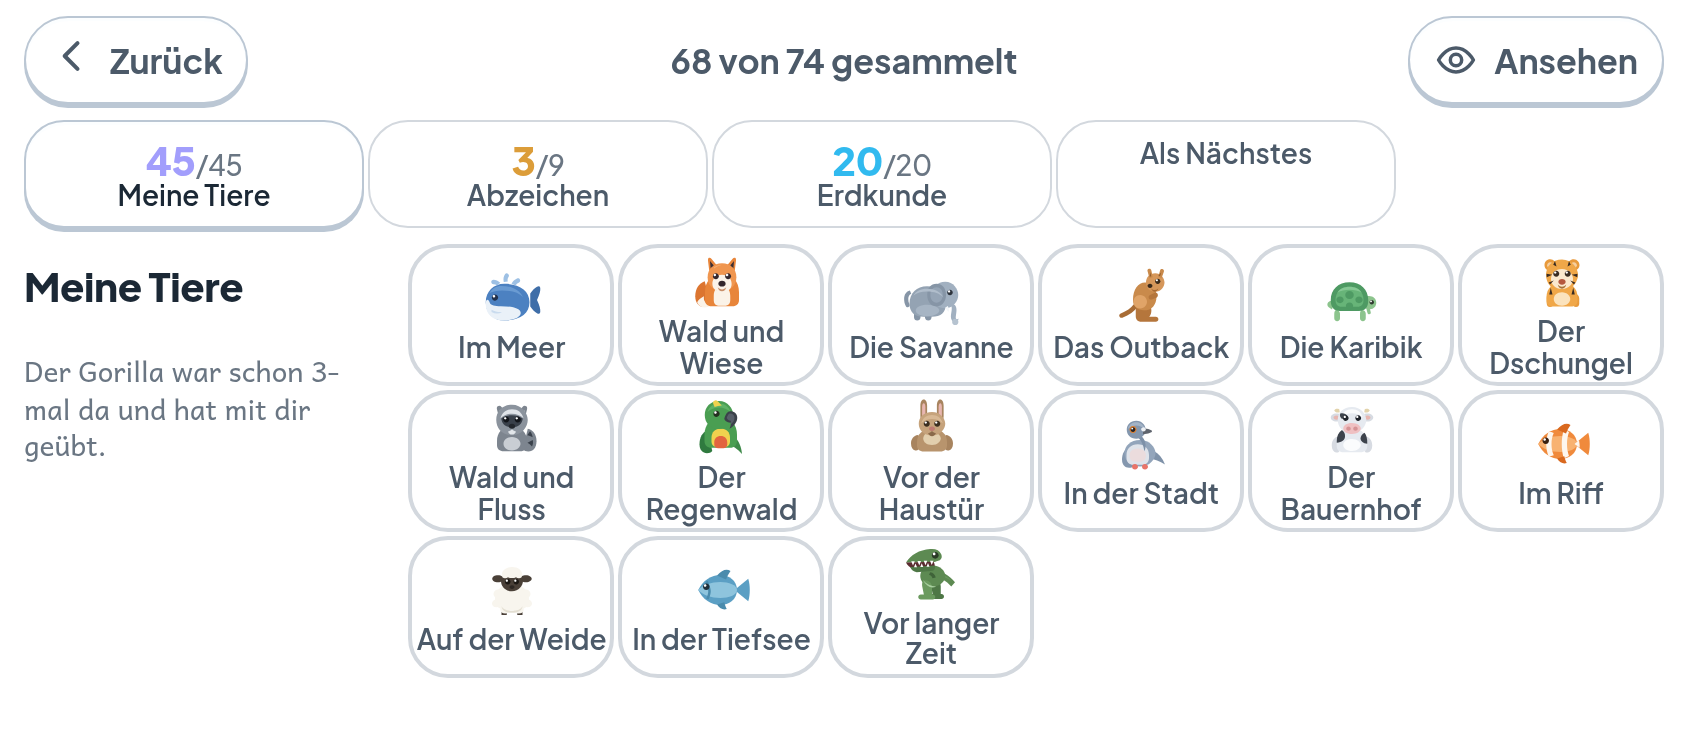
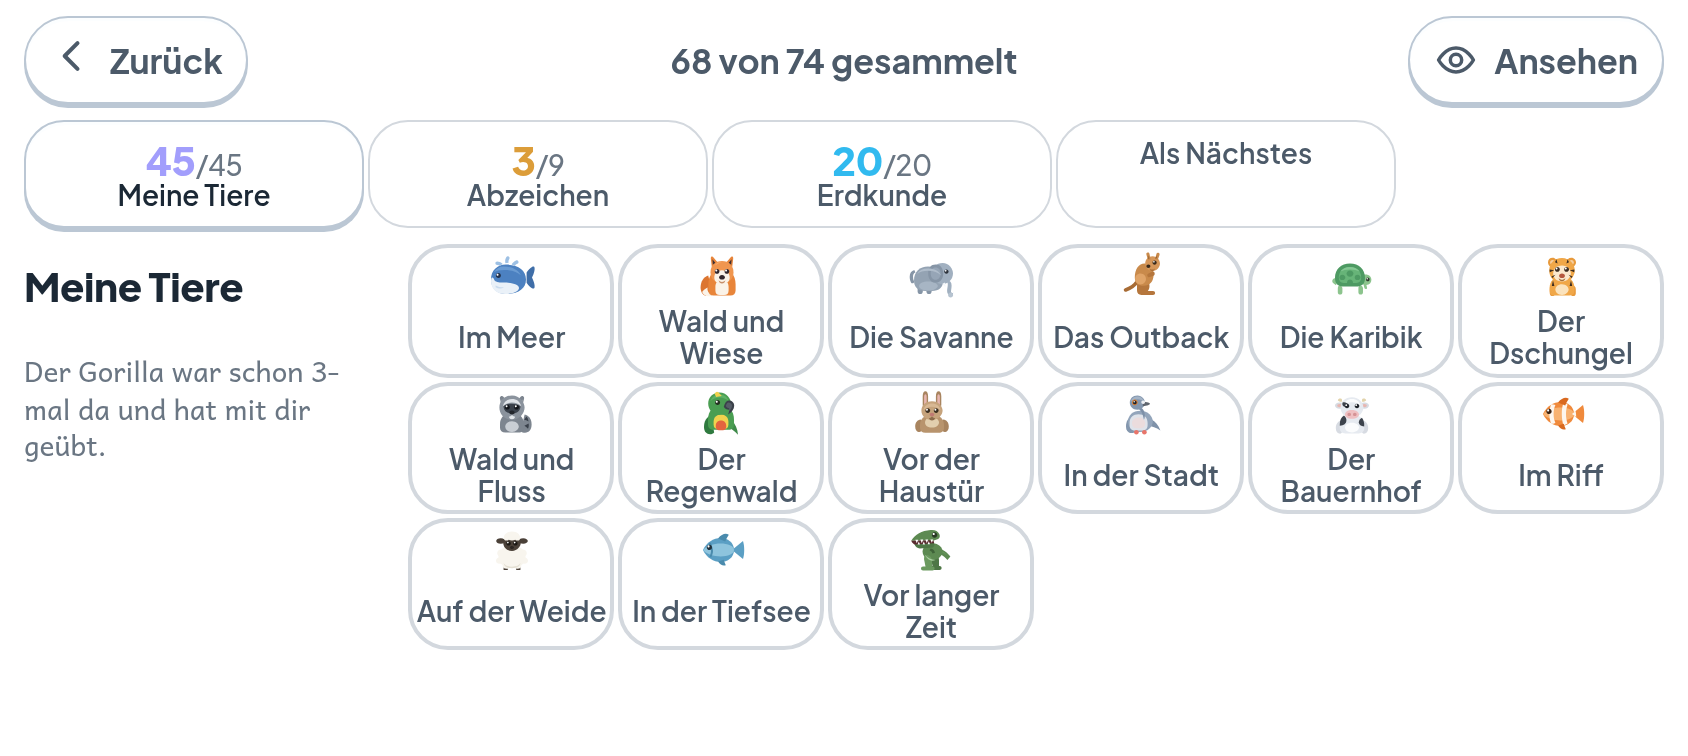
B15: neun Auslieferungen lang kam nichts an — die Wandhöhe hing an der Schriftrundung
Rückmeldung der Familie, zum dritten Mal: „Wir sehen weiterhin Version
420." Ich hatte es zweimal als Cache abgetan. Es war keiner.

DIE LETZTEN NEUN AUSLIEFERUNGEN SIND ALLE ROT. Zuletzt ausgeliefert
wurde Lauf #200 (4d27af0, Runde 0). Alles seither — Runde 3, Runde 4,
B4b, B12, B12b, B13, B14 — liegt in `main` und war nie auf einem Gerät.
Der Service Worker ist unschuldig: er liefert korrekt aus, was Pages
hat, und Pages hat v420.

DIE URSACHE ist ein Tor, das auf zwei Rechnern verschieden urteilt:

    ROT  iPhone quer, Leiste 844x390 — 5 nicht erreichbar
           Forscherbuch (Tiere): „Der Bauernhof" — 3 px über den Rand

Lokal grün. Gemessen ist der Unterschied 16 Punkte, also genau eine
Textzeile. Fünf der fünfzehn Raumnamen liegen mit 99 bis 107 Punkten an
der Kante der 106 Punkte breiten Zelle — auf welcher Seite sie fallen,
entscheidet die Sub-Pixel-Rundung des jeweiligen Chromium. Damit hing
die HÖHE der ganzen Wand an der Schriftrundung. Auf dem Gerät mit
sicherer Fläche ist das Raster 214 hoch, drei Reihen zu 71 sind 213: es
war nie Luft da, es war Glück.

BREITER MACHEN GING NICHT — gemessen und verworfen: mit 112 Punkten
passt jeder Name in eine Zeile, aber es sind nur noch vier Spalten und
damit vier Reihen, 14 Punkte zu viel.

WAS FUNKTIONIERT: der Kasten des Namens ist IMMER zwei Zeilen hoch, ob
er sie braucht oder nicht, und das Merkzeichen schrumpft auf dem kurzen
Querformat von 30 auf 24 Punkte. Die Höhe der Wand ist damit eine
[…]

Changed region(s): [[0.2464, 0.3347, 0.9858, 0.9127]]

diff --git a/prototyp/vorlage.html b/prototyp/vorlage.html
@@ -1300,7 +1300,13 @@ body{background:linear-gradient(168deg,var(--grund) 0%,var(--grund-2) 100%);
      auf 667 x 375 genau 228 Punkte hoch in 229 verfuegbaren - ein Punkt
      Luft ist keine Luft, sondern der naechste rote Lauf. Mit 30 sind es
      214. */
-  .raumzelle .raumzeichen{width:30px;height:30px}
+  /* 24 statt 30 auf dem kurzen Querformat (B15). Gemessen: mit dem
+     festen Zweizeilenkasten darueber stehen drei Reihen zu 72 Punkten
+     in einem Raster von 214 - sieben zu viel. Sechs Punkte weniger Bild
+     je Reihe machen daraus achtzehn Punkte Luft. Das Bild ist hier ein
+     Merkzeichen neben dem Namen und nicht der Inhalt; die Tiere selbst
+     stehen gross IM Raum. */
+  .raumzelle .raumzeichen{width:24px;height:24px}
   /* Der eigene Abstand der Bloecke im Tierkapitel bleibt weg - das
      RASTER setzt seine Zeilen ohnehin auseinander. Beim Buch-Umbau
      hatte ich ihn mit den anderen Notmassnahmen gestrichen, und `passt`
@@ -3302,6 +3308,20 @@ code{font-family:ui-monospace,monospace;font-size:.9em;background:var(--linie);
    Fuer das Tierkapitel aendert das nichts: fuenfzehn Raeume fuellen die
    Spalten ohnehin. */
 .rollen.buch .raumgitter{grid-template-columns:repeat(auto-fit,minmax(88px,1fr))}
+/* ZWEI ZEILEN, IMMER - fuer die Raumzellen (B15).
+   Der Fehler war nicht, DASS ein Name umbricht, sondern dass die Hoehe
+   der ganzen Wand davon abhing, WELCHE umbrechen. Fuenf der fuenfzehn
+   Namen liegen mit 99 bis 107 Punkten genau an der Kante der 106 Punkte
+   breiten Zelle; auf welcher Seite, entscheidet die Rundung des
+   jeweiligen Chromium. Lokal blieben 13 Punkte Luft, auf dem Runner
+   fehlten 3 - und neun Auslieferungen lang kam nichts mehr an.
+   Breiter machen ging nicht: mit 112 Punkten passen zwar alle Namen in
+   eine Zeile, aber es sind nur noch vier Spalten und damit vier Reihen -
+   14 Punkte zu viel. Also andersherum: der Kasten des Namens ist IMMER
+   zwei Zeilen hoch, ob er sie braucht oder nicht. Damit ist die Hoehe
+   der Wand eine Konstante und keine Frage der Schriftrundung mehr. */
+.rollen.buch .raumzelle:not(.ebenenzelle) span{line-height:1.15;min-height:2.3em;
+  display:flex;align-items:center;justify-content:center;text-align:center}
 /* Auf dem kurzen Querformat ist der Umriss kleiner - dort sind 244
    Punkte Raster da, nicht 600. Zwei Werte und keine Rechnung: welcher
    gilt, entscheidet dieselbe Grenze, die auch die Tonleiter umschaltet. */

diff --git a/docs/Lernkiste-STAND.md b/docs/Lernkiste-STAND.md
@@ -10789,3 +10789,87 @@ funktioniert danach vollständig, sie ist nur wieder zu drei Vierteln leer, und
 die Halbleer-Ratsche (24 %) hätte 28 % durchgelassen.
 
 362 von 362 Gegenproben mit Nachweis.
+
+---
+
+## B15 · Neun Auslieferungen lang kam nichts an
+
+Der wichtigste Befund dieser Sitzung, und er stand nicht im Code, sondern im
+Lauf. Rückmeldung der Familie: *„Wir sehen weiterhin Version 420."* Zum
+dritten Mal. Ich hatte es zweimal als Cache abgetan.
+
+Es war kein Cache. **Die letzten neun Auslieferungen sind alle rot**, zuletzt
+ausgeliefert wurde Lauf #200 (`4d27af0`, Runde 0). Alles seither — Runde 3
+(Tierkapitel), Runde 4, B4b, B12, B12b, B13, B14 — liegt in `main` und war nie
+auf einem Gerät. Der Service Worker ist unschuldig; er liefert korrekt aus,
+was Pages hat, und Pages hat v420.
+
+### Die Ursache: ein Tor, das auf zwei Rechnern verschieden urteilt
+
+```
+ROT   iPhone quer, Leiste 844×390 — 5 nicht erreichbar
+        Forscherbuch (Tiere): „Der Bauernhof" — 3 px über den Rand von .buchraster
+        …
+```
+
+Lokal war dieselbe Prüfung grün. Gemessen ist der Unterschied 16 Punkte, und
+das ist genau eine Textzeile:
+
+| Raumname | braucht | Zelle |
+|---|---|---|
+| Wald und Wiese | 107,0 | 106 |
+| Vor der Haustür | 103,7 | 106 |
+| Der Regenwald | 102,3 | 106 |
+| Wald und Fluss | 99,3 | 106 |
+
+Fünf der fünfzehn Namen liegen **an der Kante der Zelle**. Auf welcher Seite
+sie fallen, entscheidet die Sub-Pixel-Rundung des jeweiligen Chromium. Damit
+hing die **Höhe der ganzen Wand** an der Schriftrundung: hier 13 Punkte Luft,
+dort 3 zu wenig — und die letzte Reihe fiel unter den Rand.
+
+Auf dem Gerät mit sicherer Fläche (die 21 Punkte oben und unten, die das
+iPhone für Uhr und Wischstreifen nimmt) ist das Raster nur 214 Punkte hoch.
+Drei Reihen zu 71 sind 213. Es war nie Luft da, es war Glück.
+
+### Der Weg, der nicht funktioniert hat
+
+Breiter machen. Mit 112 Punkten Spaltenbreite passt **jeder** Name in eine
+Zeile — aber es sind dann nur noch vier Spalten und damit vier Reihen: 14
+Punkte zu viel. Gemessen, verworfen.
+
+### Der Weg, der funktioniert
+
+Der Kasten des Namens ist **immer zwei Zeilen hoch**, ob er sie braucht oder
+nicht, und das Merkzeichen schrumpft auf dem kurzen Querformat von 30 auf 24
+Punkte. Damit ist die Höhe der Wand eine **Konstante**: 15 Zellen zu je 66
+Punkten, drei Reihen, 11 Punkte Luft — auf jedem Rechner dieselbe.
+
+Die Zusage dazu prüft nicht den Überlauf (den fängt die Randmessung ohnehin,
+aber eben nur dort, wo er gerade auftritt), sondern seine **Ursache**: *alle
+Raumzellen sind gleich hoch.* Das ist auf jedem Rechner dieselbe Aussage, und
+sie steht in `passt`, wo alle fünfzehn Räume wirklich stehen.
+
+### Und warum es neun Läufe lang niemand nachlesen konnte
+
+Der Ablauf sichert bei Rot das volle Protokoll als Artefakt — aus `.kette/`.
+Der Ordner fängt mit einem Punkt an, und `upload-artifact@v4` überspringt
+versteckte Dateien von sich aus. Im Lauf stand jedes Mal:
+
+```
+No files were found with the provided path: .kette/. No artifacts will be uploaded.
+```
+
+Es gab also neun rote Auslieferungen und kein einziges Protokoll dazu.
+`include-hidden-files: true` behebt das.
+
+### Die Lehre
+
+Zwei Regeln haben hier gleichzeitig versagt, und keine davon war neu:
+
+* **Regel 5 (jede Zahl trägt ihre Messstelle mit):** „Kette grün" hieß in
+  neun Berichten „auf meinem Rechner grün". Die Messstelle des Runners kam in
+  keinem vor.
+* **Und die Zusage, die keiner geprüft hat:** dass das Ausgelieferte auch
+  ankommt. Es gibt 362 Gegenproben für das, was die App tut, und keine
+  einzige dafür, dass sie das Gerät erreicht. Der Fassungsstempel steht auf
+  jedem Bildschirm — gelesen hat ihn nur die Familie.
